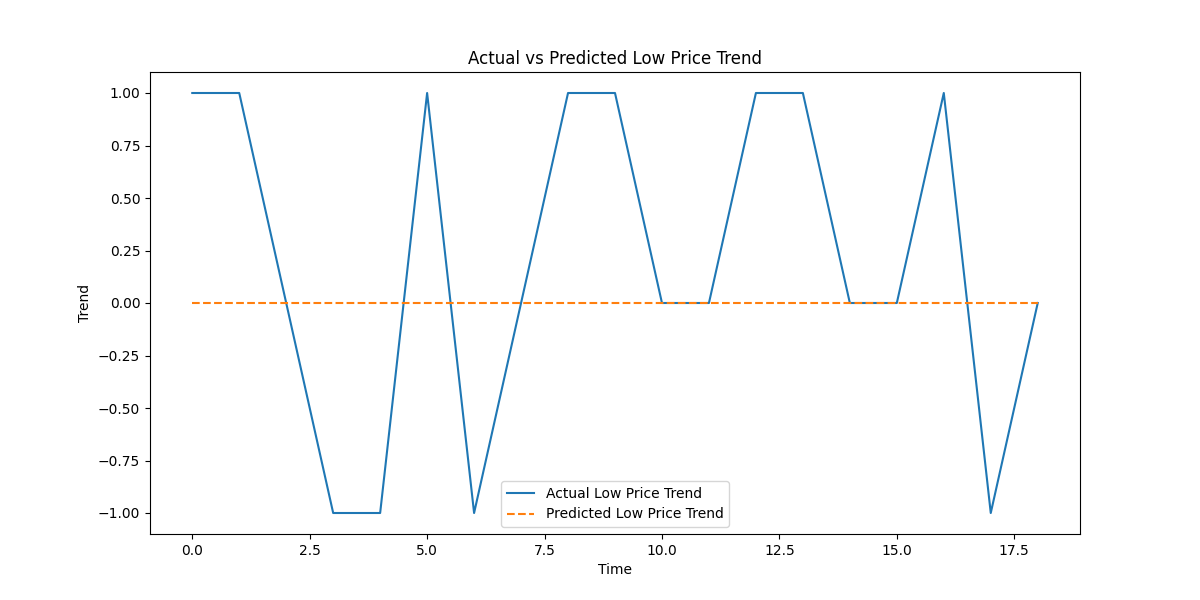
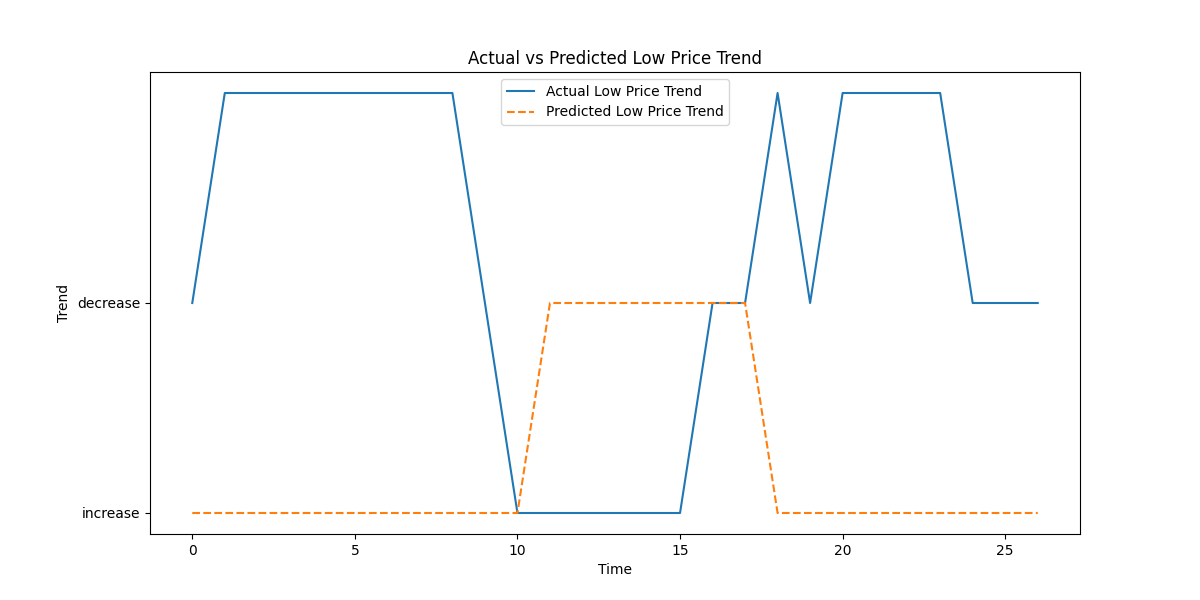
changed the trends finding algo

diff --git a/main.py b/main.py
@@ -13,6 +13,7 @@ class HMM:
         self.n_states = len(states)
         self.n_ob_symbols = len(ob_symbols)
 
+        print(self.ob_symbols)
         # Initialize transition, emission, and initial state probabilities
         self.transition_prob_mat = np.random.rand(self.n_states, self.n_states)
         self.transition_prob_mat /= self.transition_prob_mat.sum(axis=1, keepdims=True)
@@ -25,9 +26,9 @@ class HMM:
 
     def load_model(self):
         try:
-            self.transition_prob_mat = np.load('transition_prob_mat.npy')
-            self.emission_prob_mat = np.load('emission_prob_mat.npy')
-            self.stationary_dist = np.load('stationary_dist.npy')
+            self.transition_prob_mat = np.load('models/transition_prob_mat.npy')
+            self.emission_prob_mat = np.load('models/emission_prob_mat.npy')
+            self.stationary_dist = np.load('models/stationary_dist.npy')
         except FileNotFoundError:
             print("Model files not found. Using randomly initialized matrices.")
 
@@ -39,35 +40,7 @@ class HMM:
  
     def train(self, data_sequence):
         self.update_phase(data_sequence)
- 
- 
-    # def viterbi_algorithm(self, observation_sequence):
-    #     T = len(observation_sequence)
-    #     V = np.zeros((T, self.n_states))
-    #     path = np.zeros((T, self.n_states), dtype=int)
- 
-    #     for s in range(self.n_states):
-    #         V[0, s] = self.stationary_dist[s] * self.emission_prob_mat[s, int(observation_sequence[0])]
- 
-    #     # Recursion
-    #     for t in range(1, T-1):
-    #         for s in range(self.n_states):
-    #             prob = V[t-1, :] * self.transition_prob_mat[:, s] * self.emission_prob_mat[s, int(observation_sequence[t])]
-    #             V[t, s] = np.max(prob)
-    #             path[t, s] = np.argmax(prob)
- 
-    #     # Termination
-    #     best_path_prob = np.max(V[T-1, :])
-    #     best_last_state = np.argmax(V[T-1, :])
- 
-    #     # Path backtracking
-    #     best_path = np.zeros(T, dtype=int)
-    #     best_path[-1] = best_last_state
-    #     for t in range(T-2, -1, -1):
-    #         best_path[t] = path[t+1, best_path[t+1]]
- 
-    #     return best_path
-    
+     
     def viterbi_algorithm(self, observation_sequence):
         T = len(observation_sequence)
         delta = np.zeros((T, self.n_states))
@@ -102,6 +75,7 @@ class HMM:
     #     # print(",next_observation: ", next_observation)
     #     # print()
     #     return next_observation
+    
     def predict_next_observation(self, observation_sequence):
         latest_state = self.viterbi_algorithm(observation_sequence)[-1]
         next_observation_prob = np.zeros(self.n_ob_symbols)
@@ -228,29 +202,30 @@ class HMM:
                 xi[t] /= xi_sum
         return xi
  
-def find_trands(data, threshold):
+def find_trands(data, possible_obsrvations, window_size=5):
     # mean = np.mean(data)
     # standard_deviation = np.std(data)
     # print(mean)
     # print(standard_deviation)
     
     trends = []
-    observations = [-1,0,1]
-    # observations = ['decrease','no-change','increase']
-    # observations = [0,1,2]
-    for i in range(len(data) - 1):
-        dif = data[i+1] - data[i]
-        if abs(dif) < threshold:
-            trends.append(observations[1])
-        elif dif < 0:
-            trends.append(observations[0])
-        else:
-            trends.append(observations[2])
-    # for i in range(len(data)):
-    #     trends.append(round((data[i] - mean) / standard_deviation))
+    for i in range(len(data) - window_size + 1):
+        window = data[i:i + window_size]
+        mean = np.mean(window)
+        std_dev = np.std(window)
+        
+        num_bins = len(possible_obsrvations)
+        bin_size = 2 * std_dev / (num_bins - 1)
+        
+        for i in range(num_bins):
+            lower_bound = mean - std_dev + i * bin_size
+            upper_bound = lower_bound + bin_size
+            if lower_bound <= window[-1] < upper_bound:
+                trends.append(possible_obsrvations[i])
+                break
+    
 
-    # print(trends)
-    return trends,observations
+    return trends
  
 def ready_data(data_csv):
     raw_data = np.genfromtxt(data_csv, delimiter=',', dtype=None, encoding=None)
@@ -273,7 +248,7 @@ def ready_data(data_csv):
 
 
     train_len = 300
-    test_len = 20
+    test_len = 40
     # Randomly select a starting point for the consecutive chunk
     start_index = np.random.randint(0, len(data_dict['Open']) - train_len - test_len)
 
@@ -288,17 +263,17 @@ def main():
     key = 'Low'
     train_data = train_data[key]
     test_data = test_data[key]
-    threshold = 100
     
-    train_trend,possible_observation = find_trands(train_data, threshold)
-    test_trend,possible_observation = find_trands(test_data, threshold)
-
     # states = ('strong-negative', 'negative', 'neutral', 'positive', 'strong-positive')
     states = ('dont-buy', 'very-strong-negative', 'strong-negative', 'negative', 'neutral', 'positive', 'strong-positive', 'very-strong-positive', 'buy-right-now')
-    # possible_observation = ('decrease', 'no-change', 'increase')
-    hmm_model = HMM(states, possible_observation)
+    possible_observation = ('decrease', 'no-change', 'increase')
+    possible_observation_enum = list(range(len(possible_observation)))
+    hmm_model = HMM(states, possible_observation_enum)
     # hmm_model = HMM(7,len(possible_observ))
     hmm = cp.deepcopy(hmm_model)
+    train_trend = find_trands(train_data, possible_observation_enum,10)
+    test_trend = find_trands(test_data, possible_observation_enum,10)
+
 
     print("Initial Model:")
     print("Transition Probabilities:")
@@ -323,16 +298,16 @@ def main():
  
     plt.figure(figsize=(12, 6))
     plt.plot(test_trend, label=f'Actual {key} Price Trend')
-    plt.plot(predicted_observations, label=f'Predicted {key} Price Trend', linestyle='--')
+    plt.plot([possible_observation[i] for i in predicted_observations], label=f'Predicted {key} Price Trend', linestyle='--')
     plt.xlabel('Time')
     plt.ylabel('Trend')
     plt.title(f'Actual vs Predicted {key} Price Trend')
     plt.legend()
 
     # Save the model parameters
-    np.save('transition_prob_mat.npy', hmm.transition_prob_mat)
-    np.save('emission_prob_mat.npy', hmm.emission_prob_mat)
-    np.save('stationary_dist.npy', hmm.stationary_dist)
+    np.save('models/transition_prob_mat.npy', hmm.transition_prob_mat)
+    np.save('models/emission_prob_mat.npy', hmm.emission_prob_mat)
+    np.save('models/stationary_dist.npy', hmm.stationary_dist)
  
     # # last_observation_no = len(open_price_test_trend)
     # initial_observation_lenght = 10
